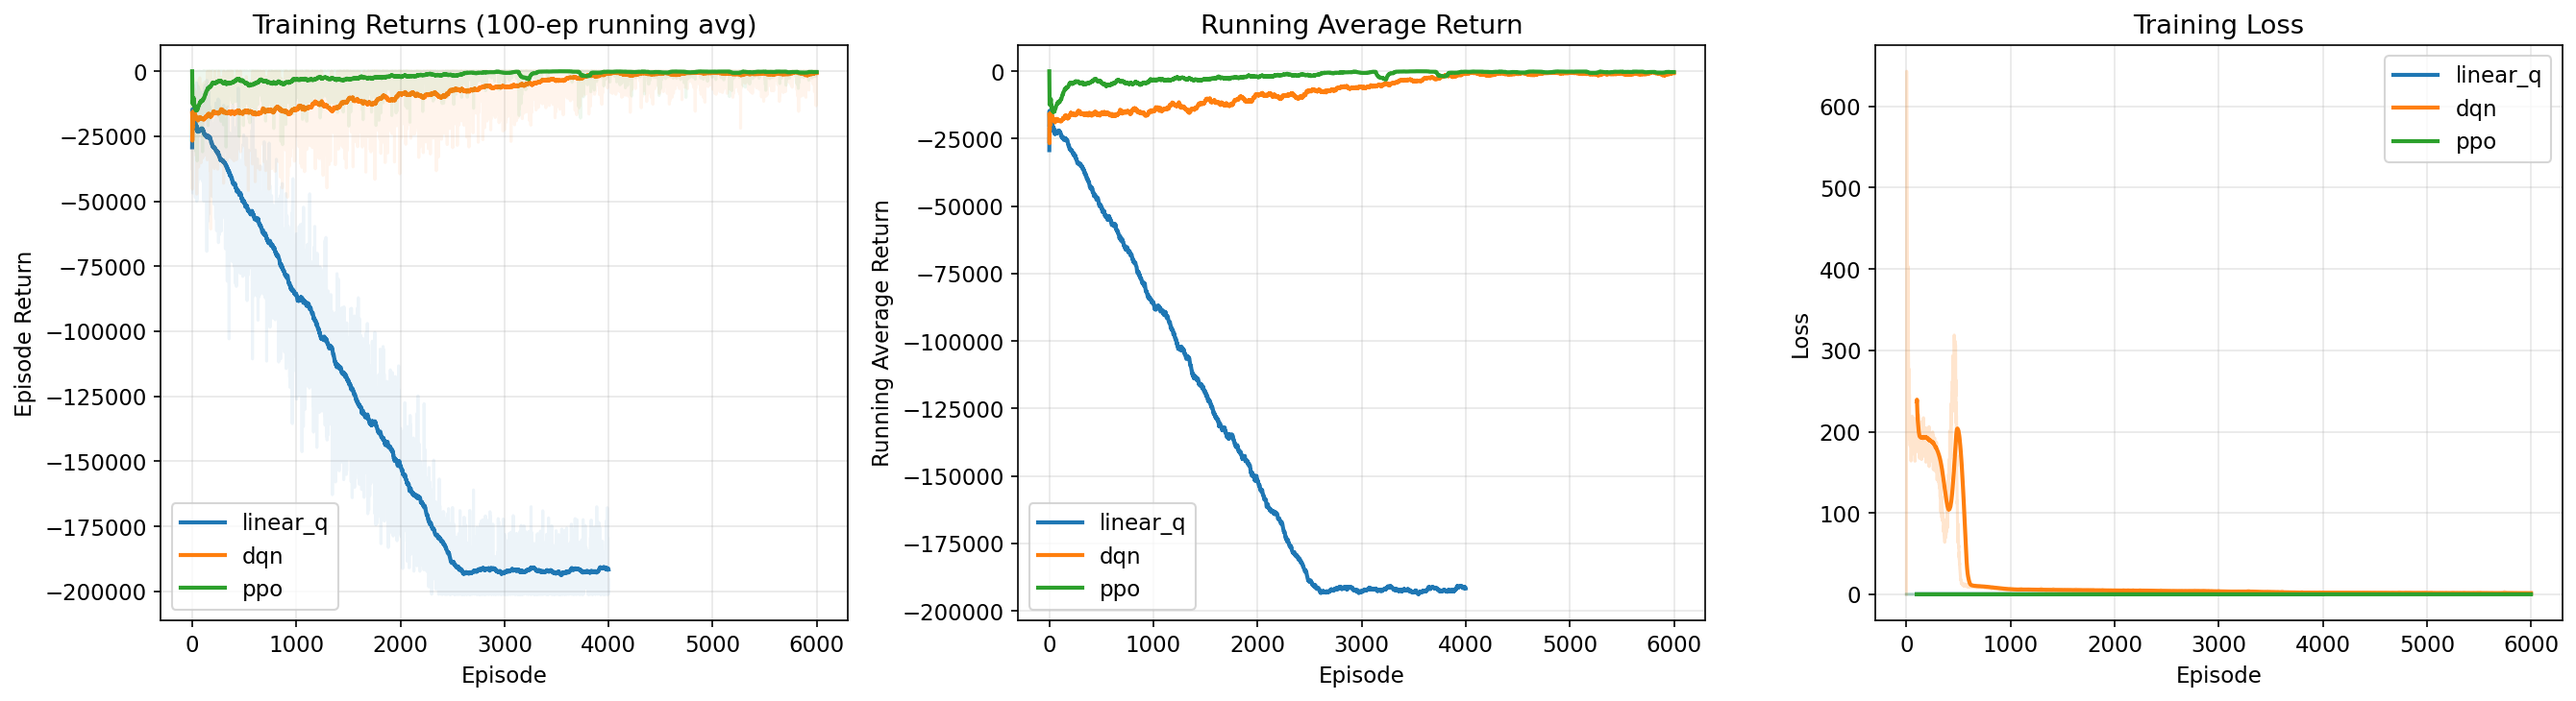
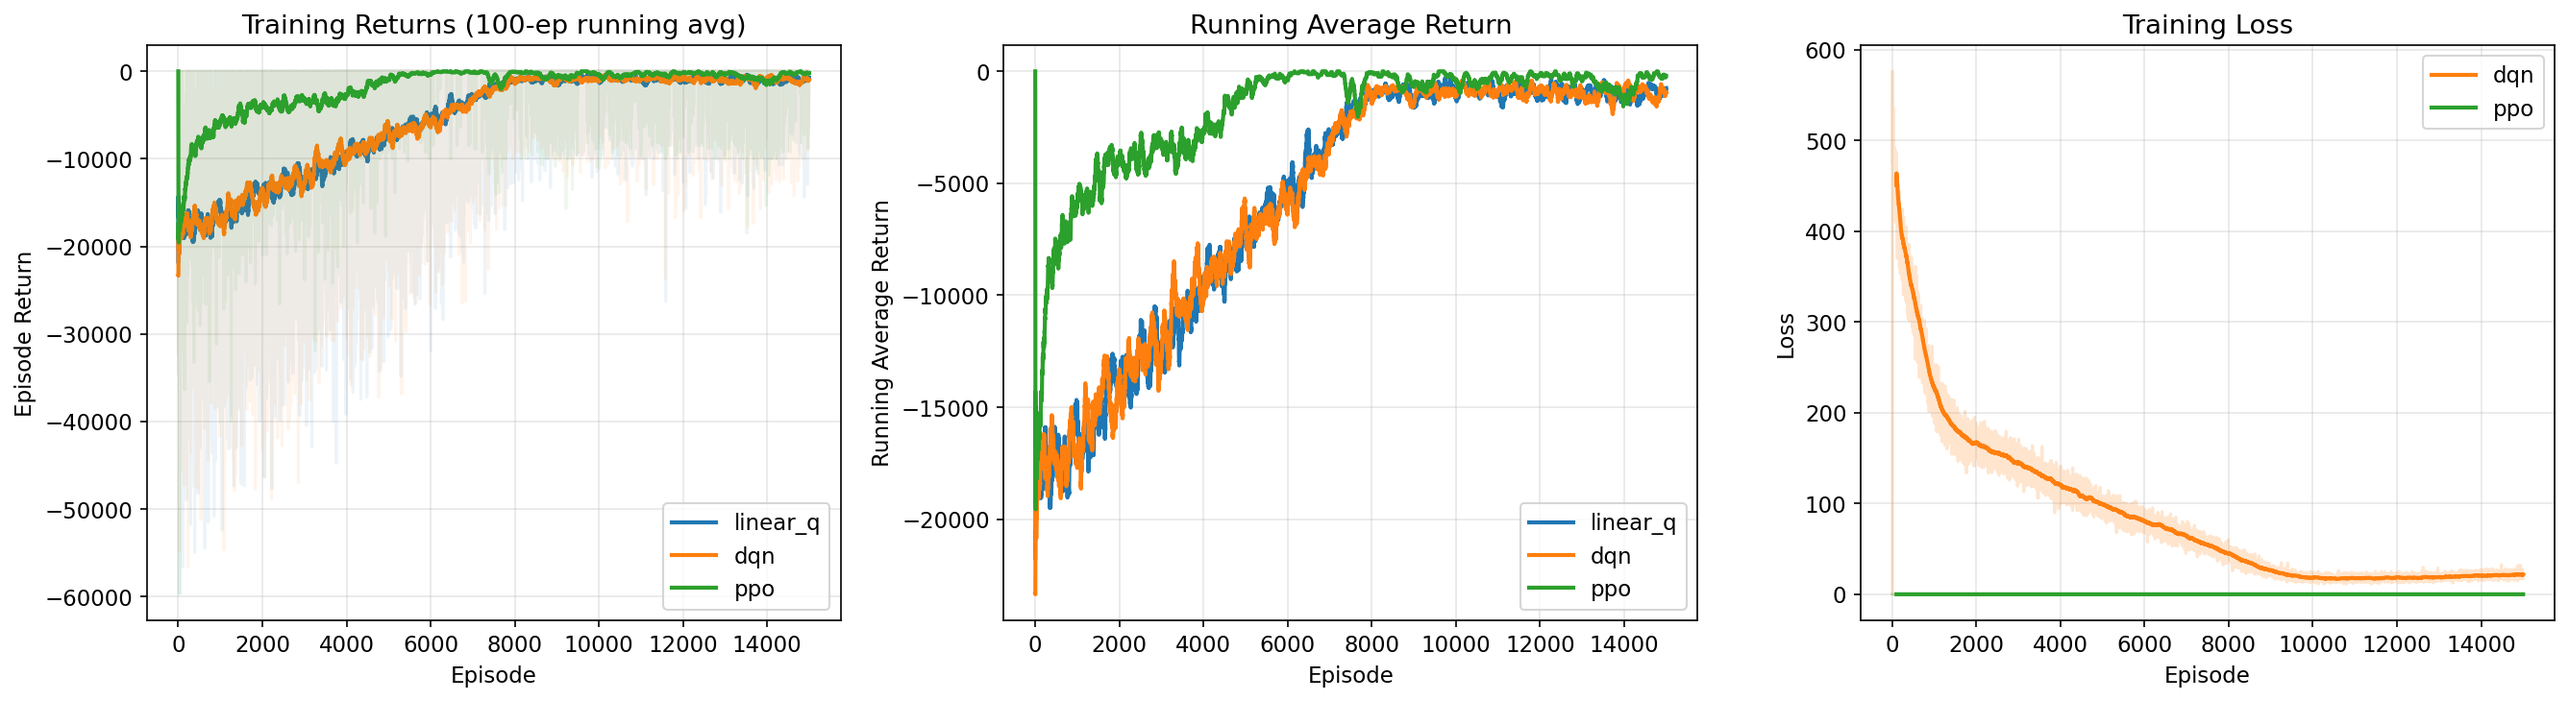
Made PPO, DQN, and Linear Q more complex

diff --git a/project/phase3/agents/dqn.py b/project/phase3/agents/dqn.py
@@ -30,38 +30,56 @@ class ReplayBuffer:
         return len(self.buffer)
 
 
+def _ortho_init(module, gain=np.sqrt(2)):
+    """Orthogonal initialization."""
+    if isinstance(module, nn.Linear):
+        nn.init.orthogonal_(module.weight, gain=gain)
+        if module.bias is not None:
+            nn.init.zeros_(module.bias)
+
+
 class QNetwork(nn.Module):
-    """Feedforward Q-network."""
-    def __init__(self, state_dim, n_actions, hidden=128):
+    """Dueling Q-network: separate value and advantage streams."""
+    def __init__(self, state_dim, n_actions, hidden=256):
         super().__init__()
-        self.net = nn.Sequential(
+        self.feature = nn.Sequential(
             nn.Linear(state_dim, hidden),
-            nn.ReLU(),
+            nn.Tanh(),
             nn.Linear(hidden, hidden),
-            nn.ReLU(),
-            nn.Linear(hidden, n_actions),
+            nn.Tanh(),
         )
+        self.value_stream = nn.Linear(hidden, 1)
+        self.advantage_stream = nn.Linear(hidden, n_actions)
+        self.feature.apply(lambda m: _ortho_init(m, np.sqrt(2)))
+        _ortho_init(self.value_stream, 1.0)
+        _ortho_init(self.advantage_stream, 0.01)
 
     def forward(self, x):
-        return self.net(x)
+        h = self.feature(x)
+        v = self.value_stream(h)
+        a = self.advantage_stream(h)
+        return v + a - a.mean(dim=1, keepdim=True)
 
 
 class DQNAgent(BaseAgent):
-    """DQN agent with target network and experience replay."""
+    """Dueling DQN agent with target network and experience replay."""
 
-    def __init__(self, state_dim, n_actions, lr=1e-3, buffer_size=50000,
-                 batch_size=64, target_update_freq=50,
+    uses_replay = True
+
+    def __init__(self, state_dim, n_actions, lr=1e-3, hidden=256, buffer_size=50000,
+                 batch_size=64, target_update_freq=50, gamma=1.0,
                  epsilon_start=1.0, epsilon_end=0.05, epsilon_decay_episodes=3000):
         self.n_actions = n_actions
         self.batch_size = batch_size
         self.target_update_freq = target_update_freq
+        self.gamma = gamma
         self.epsilon = epsilon_start
         self.eps_start = epsilon_start
         self.eps_end = epsilon_end
         self.eps_decay = epsilon_decay_episodes
 
-        self.q_net = QNetwork(state_dim, n_actions).to(device)
-        self.target_net = QNetwork(state_dim, n_actions).to(device)
+        self.q_net = QNetwork(state_dim, n_actions, hidden).to(device)
+        self.target_net = QNetwork(state_dim, n_actions, hidden).to(device)
         self.target_net.load_state_dict(self.q_net.state_dict())
 
         self.optimizer = optim.Adam(self.q_net.parameters(), lr=lr)
@@ -102,7 +120,7 @@ class DQNAgent(BaseAgent):
 
         with torch.no_grad():
             q_next = self.target_net(ns).max(dim=1)[0]
-            target = r + (1 - d) * q_next
+            target = r + self.gamma * (1 - d) * q_next
 
         loss = self.loss_fn(q_vals, target)
 

diff --git a/project/phase3/agents/ppo.py b/project/phase3/agents/ppo.py
@@ -51,24 +51,46 @@ class RolloutBuffer:
         )
 
 
-class ActorCritic(nn.Module):
-    """Shared-trunk actor-critic for discrete action spaces."""
+def _ortho_init(module, gain=np.sqrt(2)):
+    """Orthogonal initialization (standard for PPO)."""
+    if isinstance(module, nn.Linear):
+        nn.init.orthogonal_(module.weight, gain=gain)
+        if module.bias is not None:
+            nn.init.zeros_(module.bias)
 
-    def __init__(self, state_dim, n_actions, hidden=128):
+
+class ActorCritic(nn.Module):
+    """Separate actor and critic networks for discrete action spaces.
+
+    Using independent networks avoids the shared-trunk problem where the
+    critic's loss dominates and prevents the actor from learning
+    state-dependent features.
+    """
+
+    def __init__(self, state_dim, n_actions, hidden=256):
         super().__init__()
-        self.shared = nn.Sequential(
+        self.actor = nn.Sequential(
             nn.Linear(state_dim, hidden),
-            nn.ReLU(),
+            nn.Tanh(),
             nn.Linear(hidden, hidden),
-            nn.ReLU(),
+            nn.Tanh(),
+            nn.Linear(hidden, n_actions),
         )
-        self.actor_head = nn.Linear(hidden, n_actions)
-        self.critic_head = nn.Linear(hidden, 1)
+        self.critic = nn.Sequential(
+            nn.Linear(state_dim, hidden),
+            nn.Tanh(),
+            nn.Linear(hidden, hidden),
+            nn.Tanh(),
+            nn.Linear(hidden, 1),
+        )
+        self.actor[:-1].apply(lambda m: _ortho_init(m, np.sqrt(2)))
+        _ortho_init(self.actor[-1], 0.01)  # small init for policy head
+        self.critic[:-1].apply(lambda m: _ortho_init(m, np.sqrt(2)))
+        _ortho_init(self.critic[-1], 1.0)
 
     def forward(self, x):
-        h = self.shared(x)
-        logits = self.actor_head(h)
-        value = self.critic_head(h).squeeze(-1)
+        logits = self.actor(x)
+        value = self.critic(x).squeeze(-1)
         return logits, value
 
     def get_dist(self, x):
@@ -80,7 +102,9 @@ class ActorCritic(nn.Module):
 class PPOAgent(BaseAgent):
     """Proximal Policy Optimization with clipped surrogate objective."""
 
-    def __init__(self, state_dim, n_actions, lr=3e-4, hidden=128,
+    uses_replay = True
+
+    def __init__(self, state_dim, n_actions, lr=3e-4, hidden=256,
                  rollout_steps=512, ppo_epochs=4, minibatch_size=64,
                  clip_range=0.2, ent_coef=0.01, vf_coef=0.5,
                  max_grad_norm=0.5, gae_lambda=0.95, gamma=1.0,

diff --git a/project/phase3/agents/linear_q.py b/project/phase3/agents/linear_q.py
@@ -5,7 +5,13 @@ from .base import BaseAgent
 
 
 class LinearQAgent(BaseAgent):
-    """Linear function approximation Q-learning agent."""
+    """Linear function approximation Q-learning with rich feature expansion.
+
+    Features include polynomial terms of continuous features (time, wealth)
+    AND interactions between continuous features and one-hot categorical
+    features (income, regime), so the agent can learn different policies
+    for different regimes/income states.
+    """
 
     def __init__(self, state_dim, n_actions, alpha=1e-4, gamma_discount=1.0,
                  epsilon_start=1.0, epsilon_end=0.05, epsilon_decay_episodes=2000):
@@ -17,10 +23,13 @@ class LinearQAgent(BaseAgent):
         self.eps_end = epsilon_end
         self.eps_decay = epsilon_decay_episodes
 
-        # Polynomial features: original + squared + pairwise of continuous features
-        # State dim = 8 (2 continuous + 6 one-hot)
-        # Features: 8 original + 2 squared + 1 cross + bias = 12
-        self.feat_dim = state_dim + 3 + 1
+        # state = [t_feat, w_feat, y0, y1, y2, z0, z1, z2]  (dim=8)
+        # Expanded features:
+        #   8 original + 3 polynomial (t^2, w^2, t*w)
+        #   + 6 interactions: t*y0..y2, t*z0..z2
+        #   + 6 interactions: w*y0..y2, w*z0..z2
+        #   + 1 bias = 24
+        self.feat_dim = 24
         self.weights = np.zeros((n_actions, self.feat_dim))
 
     @property
@@ -28,10 +37,13 @@ class LinearQAgent(BaseAgent):
         return "Linear Q"
 
     def _expand_features(self, state):
-        """Expand raw state features with polynomial terms."""
-        t_feat, w_feat = state[0], state[1]
-        poly = np.array([t_feat**2, w_feat**2, t_feat * w_feat])
-        return np.concatenate([state, poly, [1.0]])
+        """Expand raw state features with polynomial and interaction terms."""
+        t, w = state[0], state[1]
+        cat = state[2:]  # 6 one-hot values (3 income + 3 regime)
+        poly = np.array([t**2, w**2, t * w])
+        t_cross = t * cat   # 6 terms: time interacted with each categorical
+        w_cross = w * cat   # 6 terms: wealth interacted with each categorical
+        return np.concatenate([state, poly, t_cross, w_cross, [1.0]])
 
     def q_values(self, state):
         """Compute Q(s, a) for all actions."""

diff --git a/project/phase3/env.py b/project/phase3/env.py
@@ -21,12 +21,22 @@ class PortfolioEnv:
         self.z = 1     # start normal regime
         self.done = False
 
-    def reset(self, W0_val=None, y0=None, z0=None):
-        """Reset to initial state. Returns feature vector."""
+    def reset(self, W0_val=None, y0=None, z0=None, randomize=False):
+        """Reset to initial state. Returns feature vector.
+
+        If randomize=True, sample diverse starting conditions so the agent
+        experiences a wider range of (wealth, income, regime) states early
+        in training, which is critical for learning state-dependent policies.
+        """
         self.t = 0
-        self.W = W0 if W0_val is None else W0_val
-        self.y = 1 if y0 is None else y0
-        self.z = 1 if z0 is None else z0
+        if randomize:
+            self.W = np.exp(np.random.uniform(np.log(10), np.log(W_MAX * 0.6)))
+            self.y = np.random.randint(N_INCOME)
+            self.z = np.random.randint(N_REGIME)
+        else:
+            self.W = W0 if W0_val is None else W0_val
+            self.y = 1 if y0 is None else y0
+            self.z = 1 if z0 is None else z0
         self.done = False
         return self.featurize()
 
@@ -60,9 +70,8 @@ class PortfolioEnv:
         consumption = cons_frac * self.W
         savings = self.W - consumption
 
-        # Immediate reward (discounted CRRA utility of consumption)
-        # Zero consumption gets a large negative penalty from crra_scalar,
-        # matching Phase 2 DP where u(0) = -1e18 blocked infeasible choices.
+        # Discounted CRRA utility of consumption (β^t accounts for time
+        # value of money). Agents use gamma=1.0 since discounting is here.
         reward = BETA ** self.t * crra_scalar(consumption)
 
         # Transition: sample return scenario
@@ -87,8 +96,7 @@ class PortfolioEnv:
         # Check terminal
         if self.t >= T:
             self.done = True
-            terminal_reward = BETA ** T * crra_scalar(self.W)
-            reward += terminal_reward
+            reward += BETA ** T * crra_scalar(self.W)
 
         info = {"consumption": consumption, "savings": savings,
                 "portfolio_return": portfolio_return, "W": self.W}

diff --git a/project/phase3/train.py b/project/phase3/train.py
@@ -11,8 +11,10 @@ def train_agent(agent, env, n_episodes, agent_name="Agent", log_every=500):
     losses = []
     t0 = time.time()
 
+    use_replay = getattr(agent, 'uses_replay', False)
+
     for ep in range(n_episodes):
-        state = env.reset()
+        state = env.reset(randomize=True)
         ep_return = 0.0
         ep_loss = 0.0
         steps = 0
@@ -22,13 +24,11 @@ def train_agent(agent, env, n_episodes, agent_name="Agent", log_every=500):
             next_state, reward, done, info = env.step(action)
             ep_return += reward
 
-            if hasattr(agent, 'store') and callable(getattr(agent, 'store')):
-                # Replay-based agent (e.g. DQN): store transition and do batch update
+            if use_replay:
                 agent.store(state, action, reward, next_state, done)
                 loss = agent.train_step()
                 ep_loss += loss
             else:
-                # Online agent (e.g. Linear Q): immediate update
                 agent.update(state, action, reward, next_state, done)
 
             state = next_state
@@ -39,7 +39,7 @@ def train_agent(agent, env, n_episodes, agent_name="Agent", log_every=500):
         episode_returns.append(ep_return)
         avg = np.mean(episode_returns[-100:])
         running_avg.append(avg)
-        if hasattr(agent, 'store') and callable(getattr(agent, 'store')):
+        if use_replay:
             losses.append(ep_loss / max(steps, 1))
         agent.decay_epsilon(ep)
 

diff --git a/project/phase3/run.py b/project/phase3/run.py
@@ -36,30 +36,31 @@ N_SIM = 2000
 AGENT_CONFIGS = {
     "linear_q": dict(
         state_dim=8, n_actions=N_ACTIONS,
-        alpha=5e-5, epsilon_start=1.0, epsilon_end=0.05,
-        epsilon_decay_episodes=2500,
+        alpha=1e-5, gamma_discount=1.0,
+        epsilon_start=1.0, epsilon_end=0.05,
+        epsilon_decay_episodes=8000,
     ),
     "dqn": dict(
         state_dim=8, n_actions=N_ACTIONS,
-        lr=5e-4, buffer_size=50000, batch_size=64,
-        target_update_freq=100,
+        lr=3e-4, hidden=256, buffer_size=100000, batch_size=128,
+        target_update_freq=200, gamma=1.0,
         epsilon_start=1.0, epsilon_end=0.05,
-        epsilon_decay_episodes=4000,
+        epsilon_decay_episodes=8000,
     ),
     "ppo": dict(
         state_dim=8, n_actions=N_ACTIONS,
-        lr=3e-4, hidden=128,
-        rollout_steps=512, ppo_epochs=4, minibatch_size=64,
-        clip_range=0.2, ent_coef=0.01, vf_coef=0.5,
+        lr=3e-4, hidden=256,
+        rollout_steps=2048, ppo_epochs=10, minibatch_size=128,
+        clip_range=0.2, ent_coef=0.05, vf_coef=0.5,
         max_grad_norm=0.5, gae_lambda=0.95, gamma=1.0,
-        epsilon_start=0.3, epsilon_end=0.0, epsilon_decay_episodes=3000,
+        epsilon_start=0.3, epsilon_end=0.0, epsilon_decay_episodes=5000,
     ),
 }
 
 TRAIN_EPISODES = {
-    "linear_q": 4000,
-    "dqn": 6000,
-    "ppo": 6000,
+    "linear_q": 15000,
+    "dqn": 15000,
+    "ppo": 15000,
 }
 
 

diff --git a/project/phase3/simulate.py b/project/phase3/simulate.py
@@ -39,8 +39,7 @@ def simulate_strategy(strategy_fn, n_paths=2000, seed=42):
             cons[i, t] = c
             savings = w - c
 
-            if c > 1e-10:
-                cum_util[i] += BETA ** t * crra_scalar(c)
+            cum_util[i] += BETA ** t * crra_scalar(c)
 
             scen = RETURN_SCENARIOS[zi]
             ki = rng.choice(N_RETURN_SCENARIOS, p=scen["probs"])

diff --git a/project/phase3/agents/base.py b/project/phase3/agents/base.py
@@ -6,6 +6,10 @@ from abc import ABC, abstractmethod
 class BaseAgent(ABC):
     """Interface that all agents must implement."""
 
+    # Set to True in agents that use store()/train_step() (DQN, PPO).
+    # Agents that use update() (LinearQ) leave this False.
+    uses_replay = False
+
     @property
     @abstractmethod
     def name(self) -> str:
